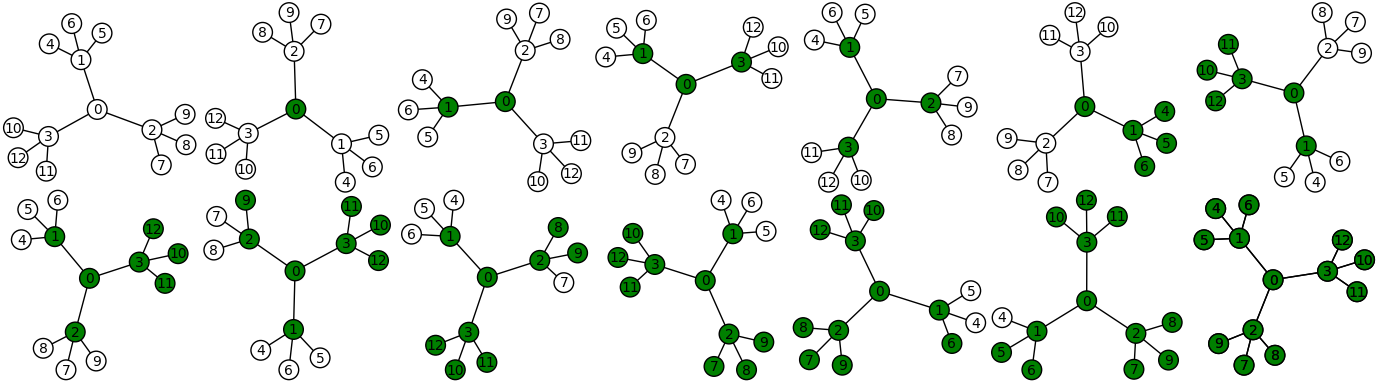
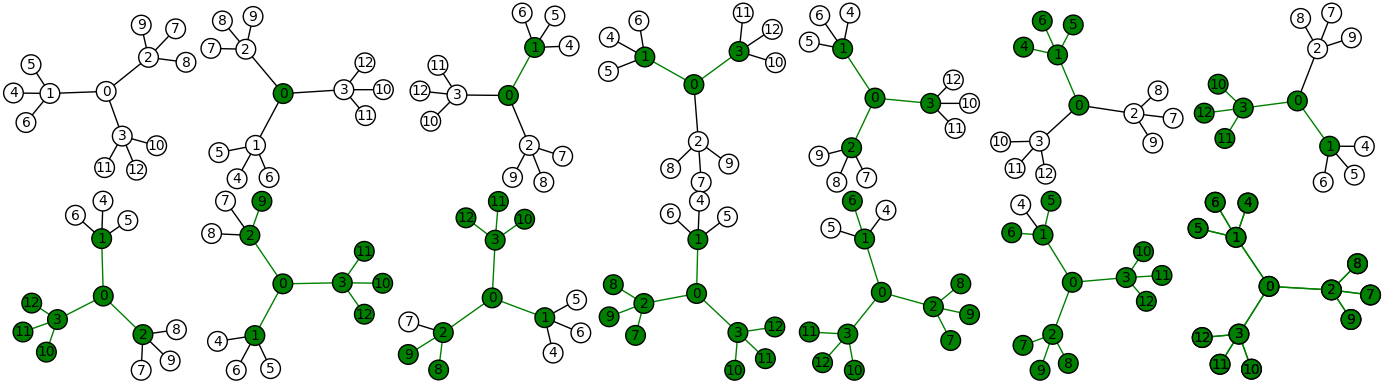
Edge colors for examples and typo

diff --git a/README.rst b/README.rst
@@ -63,15 +63,18 @@ three Python files loaded::
     sage: leaf_map(graphs.BalancedTree(2, 2), algorithm='tree')[0]
     {0: 0, 1: 0, 2: 2, 3: 2, 4: 3, 5: 3, 6: 3, 7: 4}
 
-Below are additional examples with pictures. A ternary tree:
+Below are additional examples with pictures. A ternary tree::
 
     sage: load('flis_graphs.py')
+    sage: from itertools import product
     sage: B = graphs.BalancedTree(3, 2)
     sage: (L,E) = leaf_map(B, algorithm='tree')
     sage: def plot_subgraph(graph, subgraph):
     ....:     vertex_colors = {}
     ....:     vertex_colors['white'] = set(graph) - set(subgraph)
     ....:     vertex_colors['green'] = subgraph
+    ....:     edge_colors = {}
+    ....:     edge_colors['green'] = [(u,v) for (u, v) in product(subgraph, subgraph) if u in graph.neighbors(v)]
     ....:     return graph.plot(vertex_colors=vertex_colors, figsize=(3,3))
     sage: G = graphics_array([plot_subgraph(B, E[i][0]) for i in range(14)], 2, 7)
     sage: G.show(figsize=[14,4])
@@ -81,12 +84,15 @@ Below are additional examples with pictures. A ternary tree:
 And the Petersen graph::
 
     sage: load('flis_graphs.py')
+    sage: from itertools import product
     sage: P = graphs.PetersenGraph()
     sage: (L,E) = leaf_map(P, algorithm='general')
     sage: def plot_subgraph(graph, subgraph):
     ....:     vertex_colors = {}
     ....:     vertex_colors['white'] = set(graph) - set(subgraph)
     ....:     vertex_colors['green'] = subgraph
+    ....:     edge_colors = {}
+    ....:     edge_colors['green'] = [(u,v) for (u, v) in product(subgraph, subgraph) if u in graph.neighbors(v)]
     ....:     return graph.plot(vertex_colors=vertex_colors, figsize=(3,3))
     sage: G = graphics_array([plot_subgraph(P, E[i][0]) for i in range(8)], 2, 4)
     sage: G.show(figsize=[14,7])
